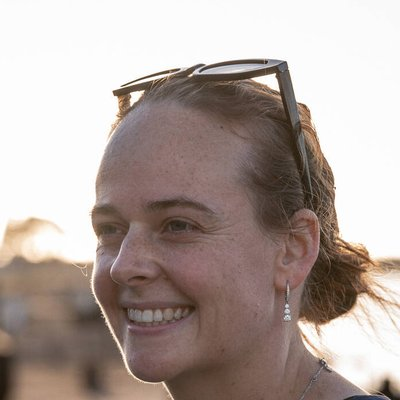
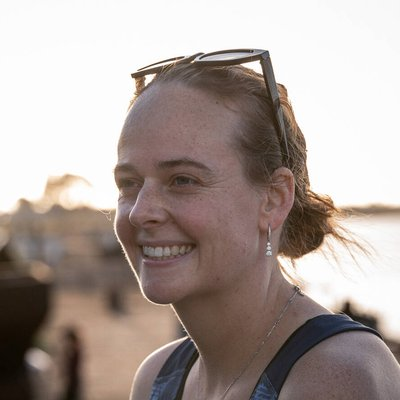
Added sponsors

diff --git a/why-not-me/src/components/Footer.jsx b/why-not-me/src/components/Footer.jsx
@@ -44,9 +44,18 @@ export default function Footer() {
       <div className="footer-sponsors">
         <span className="footer-sponsors-label">Sponsors</span>
         <div className="footer-sponsors-logos">
-          <img src="/images/sponsors/primary-logo-inverse.svg" alt="Sponsor" className="footer-sponsor-logo" />
-          <img src="/images/sponsors/brightprint.png" alt="Bright Print & Packaging" className="footer-sponsor-logo" />
-          <img src="/images/sponsors/mortgagelink.png" alt="Mortgage Link" className="footer-sponsor-logo" />
+          <a href="https://www.westpower.co.nz" target="_blank" rel="noopener noreferrer">
+            <img src="/images/sponsors/primary-logo-inverse.svg" alt="Westpower" className="footer-sponsor-logo" />
+          </a>
+          <a href="https://brightprint.co.nz/" target="_blank" rel="noopener noreferrer">
+            <img src="/images/sponsors/brightprint.png" alt="Bright Print & Packaging" className="footer-sponsor-logo" />
+          </a>
+          <a href="https://mortgagelink.co.nz/find-an-adviser/mortgage-link-christchurch/jules-keillor/" target="_blank" rel="noopener noreferrer">
+            <img src="/images/sponsors/mortgagelink.png" alt="Mortgage Link" className="footer-sponsor-logo" />
+          </a>
+          <a href="https://www.badboygraphix.co.nz/" target="_blank" rel="noopener noreferrer">
+            <img src="/images/sponsors/badboy-graphix.png" alt="Badboy Graphix" className="footer-sponsor-logo" />
+          </a>
         </div>
       </div>
 
